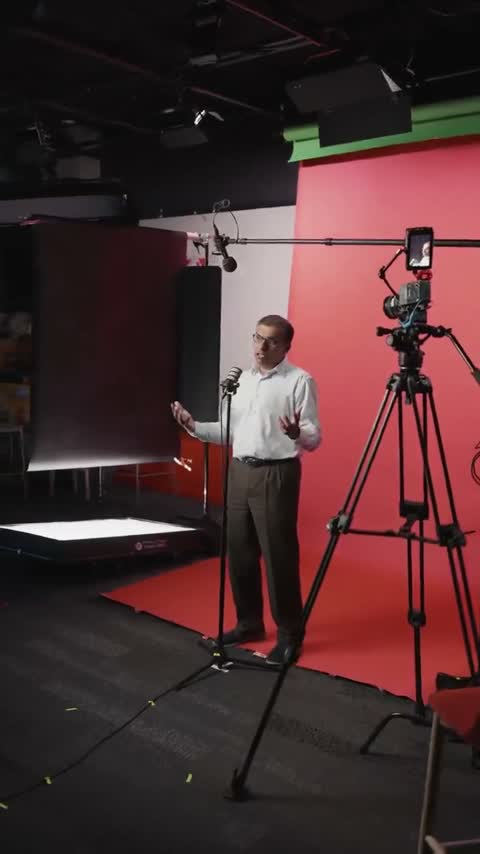
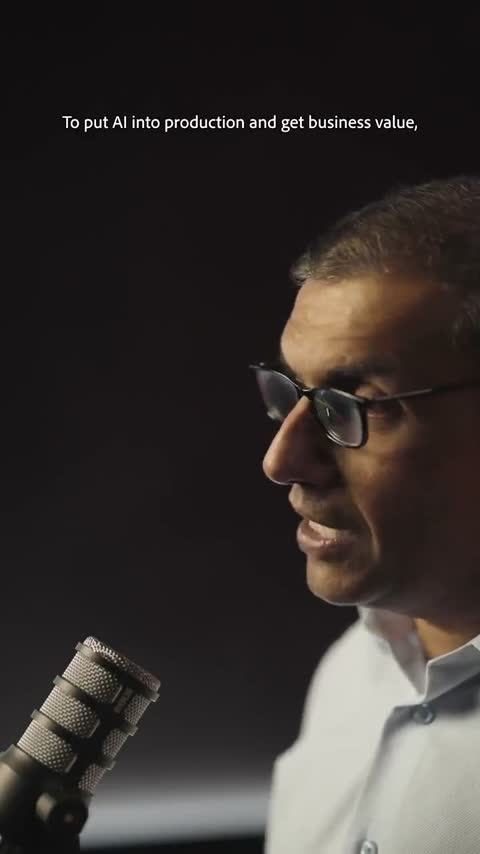
Round 2 fixes: pinned-playlist credibility + thumbnail polish
- Iliza reel shows its real public YouTube count (766) so the LinkedIn N/A
  explainer can't be falsified by a YouTube row
- Player error fallback says the reel's real platform, not 'Instagram'
- Now Playing role line resolves through the pinned mirror to the reel's
  home-playlist role (no role drift between entry doors)
- Pinned playlist excluded from the Events Library shelf (no double
  presentation); timeline year meta gains its 'plays' unit
- Em dashes out of the two N/A explainer lines (COPY-PRINCIPLES rule)
- Staying Busy card body gains Miles's on-record resume line ('keeps me
  fluent in how creators actually build an audience')
- content-strategy card imgPos 27%->40% (title text no longer beheaded);
  Anil thumb regrabbed at 25s close-up

diff --git a/src/Portfolio.jsx b/src/Portfolio.jsx
@@ -280,7 +280,7 @@ const portfolio = [
       { title: "Coolest Job: Tongyu", sub: "@adobe · 230 likes · May 15, 2026", plays: "18.1K", mp4: "~/Downloads/Claude/miles-portfolio-reels/2026/Evergreen-Producing/Tongyu-Coolest-Job_5.15.26.mp4", postUrl: "https://www.instagram.com/p/DYX7HIrkqyB/" },
       { title: "Coolest Job: Eric", sub: "@adobe · 254 likes · May 14, 2026", plays: "17.4K", mp4: "~/Downloads/Claude/miles-portfolio-reels/2026/Evergreen-Producing/Eric-Coolest-Job_5.14.26.mp4", postUrl: "https://www.instagram.com/p/DYU72ovgswY/" },
       { title: "’26 Summit: Behind the Scenes of Sneaks", sub: "@adobe · 94 likes · May 29, 2026", plays: "", role: "Produced & Coached", landscape: true, mp4: "/reels/2026/Summit-2026/BTS-Sneaks-2026.mp4", postUrl: "https://www.linkedin.com/posts/adobe-for-business_inside-adobe-summit-sneaks-2026-activity-7466192897889996800-UEnr" },
-      { title: "’26 Summit: Words of Wisdom with Iliza Shlesinger", sub: "YouTube · Apr 30, 2026", plays: "", role: "Produced & Coached", landscape: true, mp4: "/reels/2026/Summit-2026/Words-of-Wisdom-Iliza.mp4", postUrl: "https://youtu.be/Yppr9COGl0o" },
+      { title: "’26 Summit: Words of Wisdom with Iliza Shlesinger", sub: "YouTube · Apr 30, 2026", plays: "766", role: "Produced & Coached", landscape: true, mp4: "/reels/2026/Summit-2026/Words-of-Wisdom-Iliza.mp4", postUrl: "https://youtu.be/Yppr9COGl0o" },
       { title: "’26 Summit: Anil Chakravarthy Exec Interview", sub: "LinkedIn · Apr 17, 2026", plays: "", role: "Produced, creatively directed & coached", mp4: "/reels/2026/Summit-2026/Anil-Chakravarthy-Pre-Summit.mp4", postUrl: "https://www.linkedin.com/posts/adobe_adobe-summit-anil-chakravarthy-ugcPost-7451028793734926336-5JmJ" },
     ],
   },
@@ -577,7 +577,7 @@ const capabilities = [
     linkUrl: "https://www.instagram.com/reel/DH9hfTmBvr-/", linkLabel: "Play: ’25 Summit Vegas →",
   },
   {
-    img: "/cards/content-strategy.jpg", imgPos: "50% 27%", title: "Content Strategy, Concept to Published",
+    img: "/cards/content-strategy.jpg", imgPos: "50% 40%", title: "Content Strategy, Concept to Published",
     meta: "IBC · MAX · Summit · 2024–2026",
     body: "“Make the Firefly Video product release fun” was my brief. So as a creative producer on this piece, I built content strategy with PMMs, PR, and editorial, then wrote the scripts myself. The proof is a format: emoji reactions, 1.5M at IBC 2024, repeated at NAB and Summit.",
     linkUrl: "https://www.instagram.com/reel/DJC2KUPPwh3/", linkLabel: "Play: ’24 IBC Amsterdam →",
@@ -597,7 +597,7 @@ const capabilities = [
   {
     img: "/thumbs/2026/Miles-Music-Media/Happy-100th-Birthday-Miles-Davis_5.25.26.jpg", imgPos: "50% 30%", title: "Staying Busy Off The Clock",
     meta: "@MilesMusicMedia IG & MilesSpearman YT",
-    body: "Off the clock I'm a creator myself: jazz history lessons and trumpet performances on @milesmusicmedia, plus my own YouTube channel. Brainstormed, researched, shot, scripted, edited, and posted as a one-person production.",
+    body: "Off the clock I'm a creator myself: jazz history lessons and trumpet performances on @milesmusicmedia, plus my own YouTube channel. Brainstormed, researched, shot, scripted, edited, and posted as a one-person production. It keeps me fluent in how creators actually build an audience.",
     linkUrl: "https://www.instagram.com/milesmusicmedia/", linkLabel: "Play: Miles Music Media →",
   },
 ];
@@ -1443,7 +1443,7 @@ function WorkPlayer() {
                   {viewing.role && <p style={{ fontFamily: F, fontSize: 13, fontWeight: 500, color: "rgba(255,255,255,0.85)", margin: "0 0 5px" }}>{viewing.role} by Miles Spearman</p>}
                   <p style={{ fontFamily: F, fontSize: 12.5, color: C.gray, margin: 0, whiteSpace: "nowrap", overflow: "hidden", textOverflow: "ellipsis" }}>{viewing.event} · {viewing.reels.length} {viewing.reels.length === 1 ? "reel" : "reels"}{viewing.totalPlays > 0 ? ` · ${fmtPlays(viewing.totalPlays)} plays` : ""}{viewing.window ? ` · ${viewing.window}` : ""}{EVENT_PARTNERS[viewing.event] ? ` · with ${EVENT_PARTNERS[viewing.event]}` : ""}</p>
                   {viewing.pinned && viewing.reels.some(r => !r.plays) && (
-                    <p style={{ fontFamily: F, fontSize: 11, color: C.gray, margin: "6px 0 0" }}>LinkedIn doesn't publish view counts — those reels show N/A.</p>
+                    <p style={{ fontFamily: F, fontSize: 11, color: C.gray, margin: "6px 0 0" }}>LinkedIn doesn't publish view counts, so those reels show N/A.</p>
                   )}
                 </div>
               </div>
@@ -1526,13 +1526,13 @@ function WorkPlayer() {
                     <div style={{ position: "absolute", inset: 0, borderRadius: 12, background: "rgba(10,10,10,0.88)", display: "flex", flexDirection: "column", alignItems: "center", justifyContent: "center", gap: 12, padding: 20, textAlign: "center" }}>
                       <span style={{ fontSize: 26 }}>🎬</span>
                       <p style={{ fontFamily: F, fontSize: 13, color: C.gray, margin: 0, lineHeight: 1.5 }}>This file hasn't landed on the server yet.</p>
-                      <a href={cur.postUrl} target="_blank" rel="noopener noreferrer" style={{ fontFamily: F, fontSize: 13, fontWeight: 600, color: C.bg, background: C.mint, padding: "8px 18px", borderRadius: 100, textDecoration: "none" }}>Watch on Instagram ↗</a>
+                      <a href={cur.postUrl} target="_blank" rel="noopener noreferrer" style={{ fontFamily: F, fontSize: 13, fontWeight: 600, color: C.bg, background: C.mint, padding: "8px 18px", borderRadius: 100, textDecoration: "none" }}>Watch on {platformOf(cur)} ↗</a>
                     </div>
                   )}
                 </div>
                 <p style={{ fontFamily: F, fontSize: 14, fontWeight: 700, color: C.white, margin: "12px 0 2px" }}>{cur.title}</p>
                 <p style={{ fontFamily: F, fontSize: 12, color: C.gray, margin: 0 }}>{subTag(cur)}</p>
-                <p style={{ fontFamily: F, fontSize: 11, fontWeight: 600, color: C.mint, margin: "6px 0 0", lineHeight: 1.4 }}>{cur.role || EVENT_ROLES[portfolio[track.e].event] || ""}</p>
+                <p style={{ fontFamily: F, fontSize: 11, fontWeight: 600, color: C.mint, margin: "6px 0 0", lineHeight: 1.4 }}>{cur.role || EVENT_ROLES[(portfolio[track.e].pinned && reelIndexByTitle(cur.title)) ? portfolio[reelIndexByTitle(cur.title).e].event : portfolio[track.e].event] || ""}</p>
               </div>
             )}
           </div>
@@ -1860,7 +1860,7 @@ function CareerTimeline() {
               {showYear && (
                 <div className="tl-year" style={{ position: "sticky", top: 76, zIndex: 3, padding: "16px 0 8px", background: `linear-gradient(180deg, ${C.bg} 0%, ${C.bg} 82%, transparent)` }}>
                   <span style={{ fontFamily: F, fontSize: "clamp(40px, 8vw, 84px)", fontWeight: 800, color: C.red, letterSpacing: -3, lineHeight: 0.9, display: "block" }}>{yr}</span>
-                  <span style={{ fontFamily: F, fontSize: 10.5, color: "rgba(255,255,255,0.55)", letterSpacing: 1, textTransform: "uppercase" }}>{meta.count} {meta.count === 1 ? "project" : "projects"} · {meta.reels} reels · {fmtPlays(meta.plays)}</span>
+                  <span style={{ fontFamily: F, fontSize: 10.5, color: "rgba(255,255,255,0.55)", letterSpacing: 1, textTransform: "uppercase" }}>{meta.count} {meta.count === 1 ? "project" : "projects"} · {meta.reels} reels · {fmtPlays(meta.plays)} plays</span>
                 </div>
               )}
               <div style={{ position: "relative", marginBottom: 14 }}>
@@ -1911,7 +1911,7 @@ function PlaylistShelf() {
   return (
     <section id="library" style={{ padding: "36px 0 12px clamp(24px, 5vw, 80px)" }}>
       {LIB_ORDER.map(lib => (
-        <ShelfRow key={lib} title={`${lib} Library`} items={eventStats.filter(ev => LIBRARY_OF[ev.event] === lib)} />
+        <ShelfRow key={lib} title={`${lib} Library`} items={eventStats.filter(ev => LIBRARY_OF[ev.event] === lib && !ev.pinned)} />
       ))}
     </section>
   );
@@ -2061,7 +2061,7 @@ function SpecialtyDrawer({ cap, onClose, onSwitch }) {
             {desc && <p style={{ fontFamily: F, fontSize: 13, color: "rgba(255,255,255,0.82)", lineHeight: 1.6, margin: "12px 0 0", maxWidth: 340 }}>{desc}</p>}
             {!h.reel.plays && h.reel.postUrl?.includes("linkedin.com") && (
               <p style={{ fontFamily: F, fontSize: 11.5, color: C.gray, lineHeight: 1.5, margin: "8px 0 0", maxWidth: 340 }}>
-                Posted on LinkedIn, which doesn't publish view counts — plays show N/A.</p>
+                Posted on LinkedIn, which doesn't publish view counts, so plays show N/A.</p>
             )}
             <a href={h.reel.postUrl} target="_blank" rel="noreferrer"
               style={{ display: "inline-block", fontFamily: F, fontSize: 12, fontWeight: 600, color: C.mint, textDecoration: "none", marginTop: 10 }}>